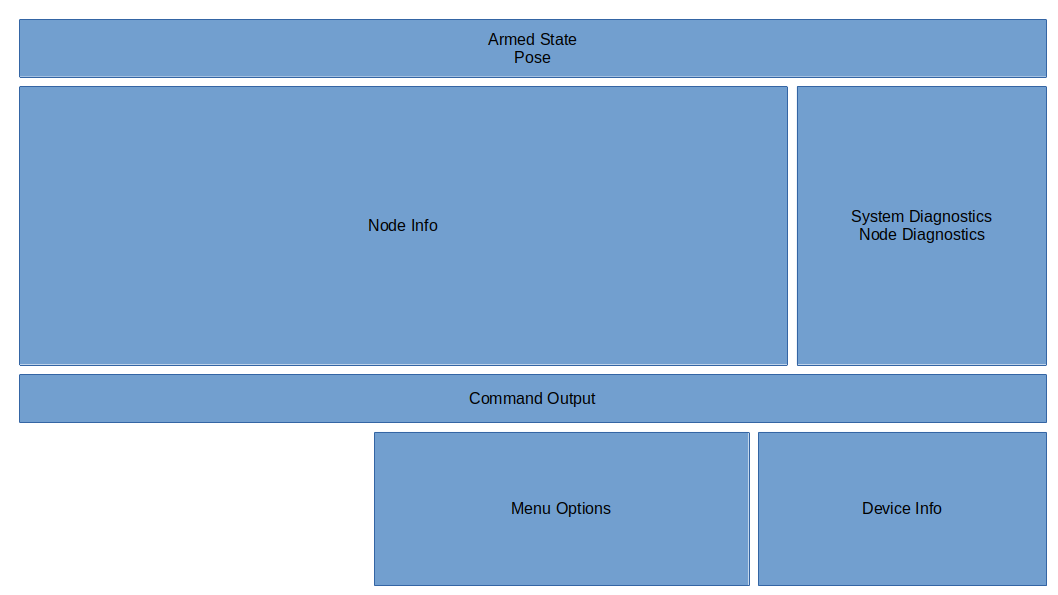
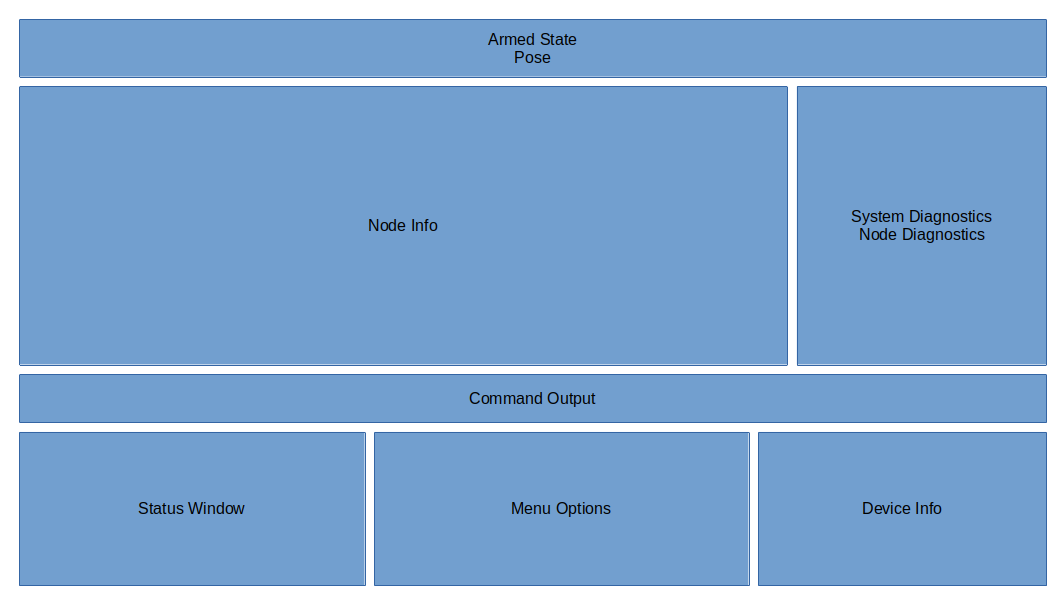
WIP

Changed region(s): [[0.0, 0.7261, 0.3431, 0.9983]]

diff --git a/Tools/Applications/SystemMonitor/doc/SystemMonitor.md b/Tools/Applications/SystemMonitor/doc/SystemMonitor.md
@@ -16,7 +16,42 @@ The System Monitor has the following requirements:
 ## Graphic Design
 ![](design/SystemMonitorGraphicDesign.png)
 
+## Execution
+To run, do the following:
+```bash
+rosrun robot_framework_ros syste_monitor _robot_namespace:=/robot 
+```
 ## Software Design
 ![](../../../../Legend.png)
 ### Class Diagram
 ![](puml/SystemMonitorClassDiagram.png)
+
+## Windows
+The following Windows are supported in the System Monitor:
+### Header
+The Header Window provides quick run-time status, such as:
+- Armed State
+- Current Time
+- Pose
+
+### Node Info
+The Node Info Window provides details on every Node running on the system.
+
+
+### System/Node Diagnostics
+This window displays Diagnostic details, either for the entire system, or for the specific Node.
+
+### Command Output
+This small window displays the status of various commands requested from the System Monitor (such as changing the Node Logger Level, requesting a snapshot, etc).
+
+### Status Window
+This is a generic Window that provides details like:
+- What kind of data collection is running
+- What the name of the application is
+- Source Code information
+
+### Menu Options
+This window displays to the user what options are available.  Note that this window is dynamic as the operations available can change over time.
+
+### Device Info
+This window displays device health information.
